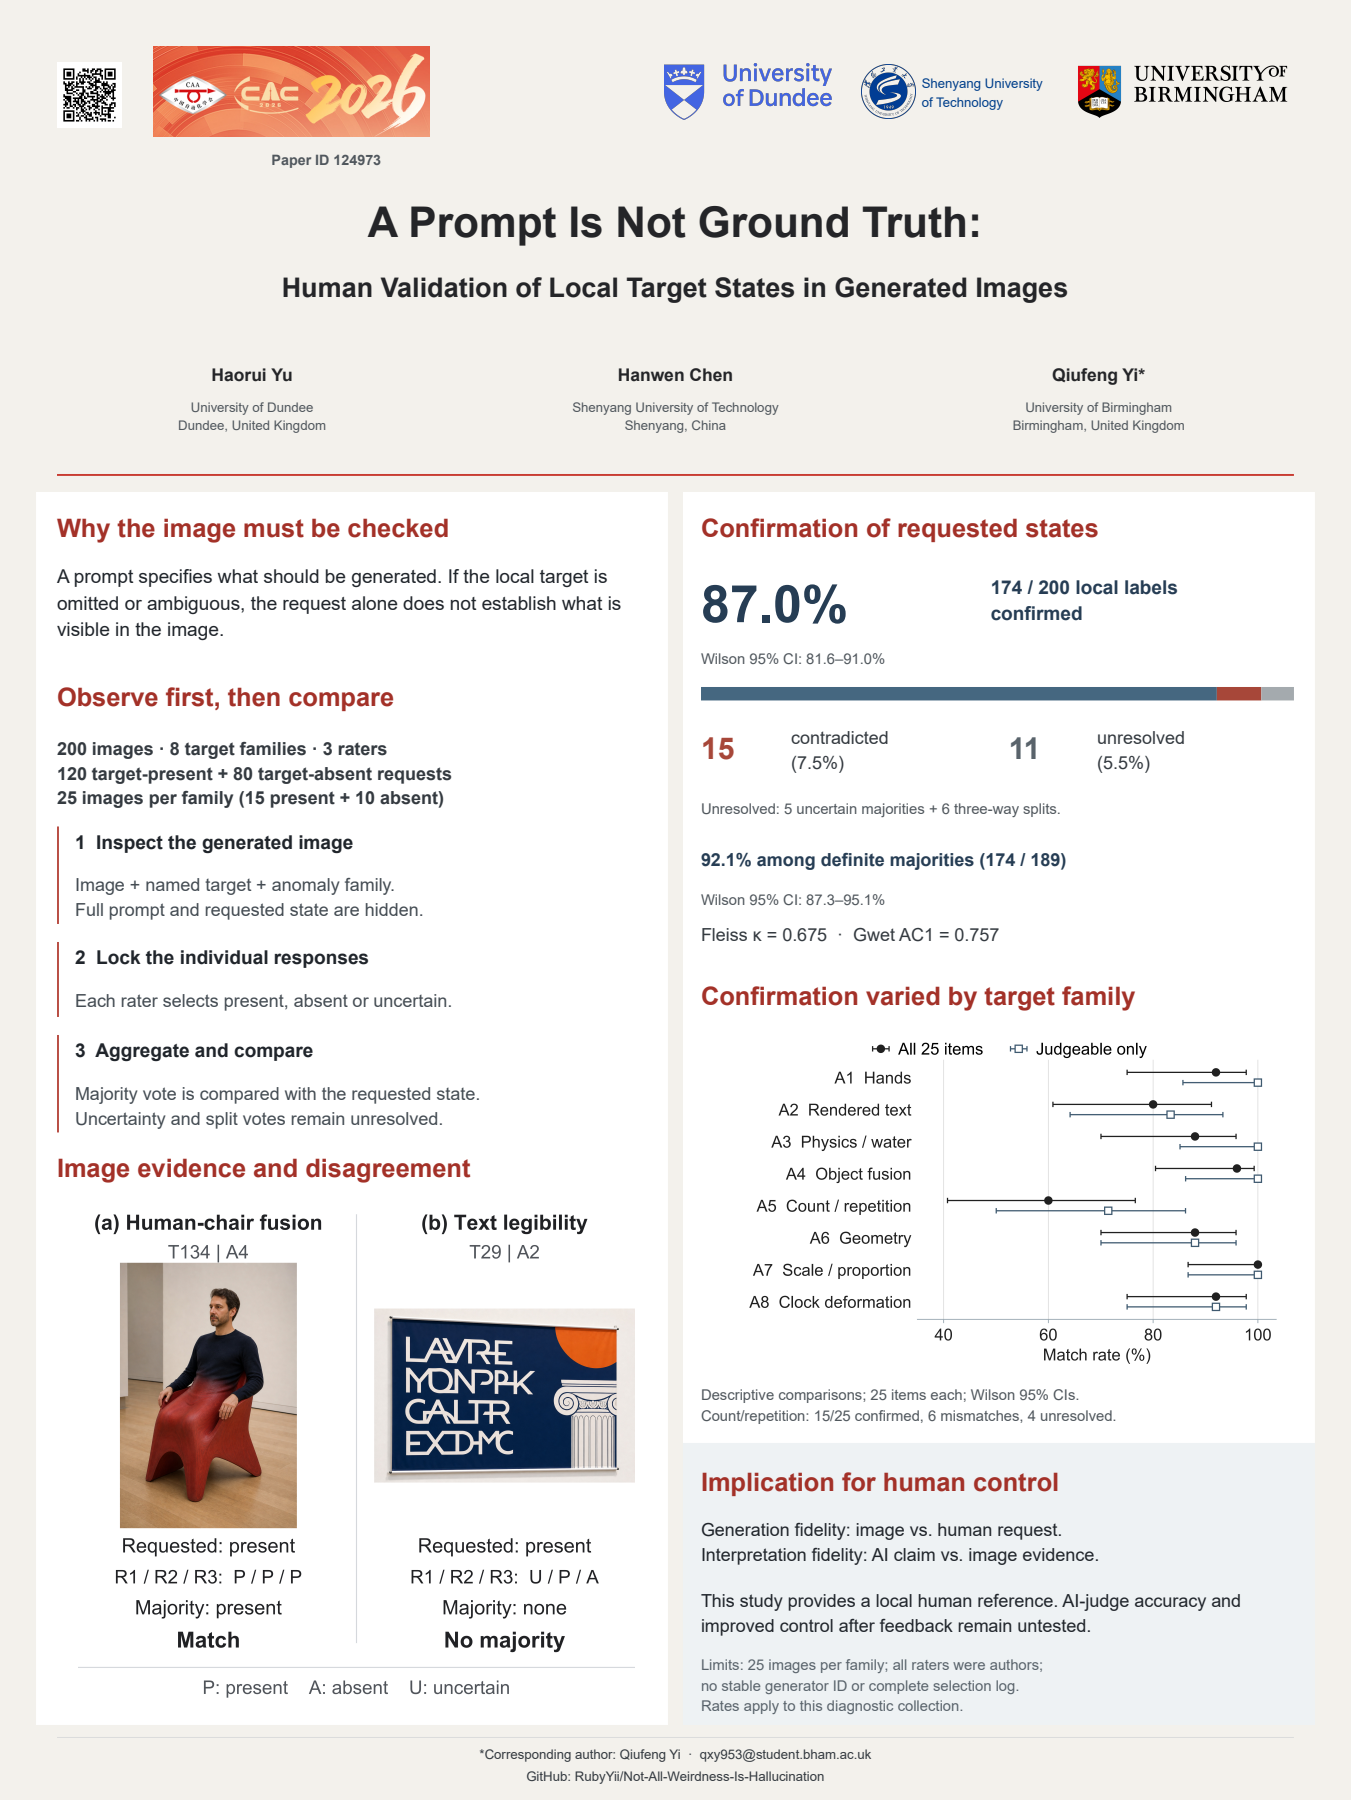
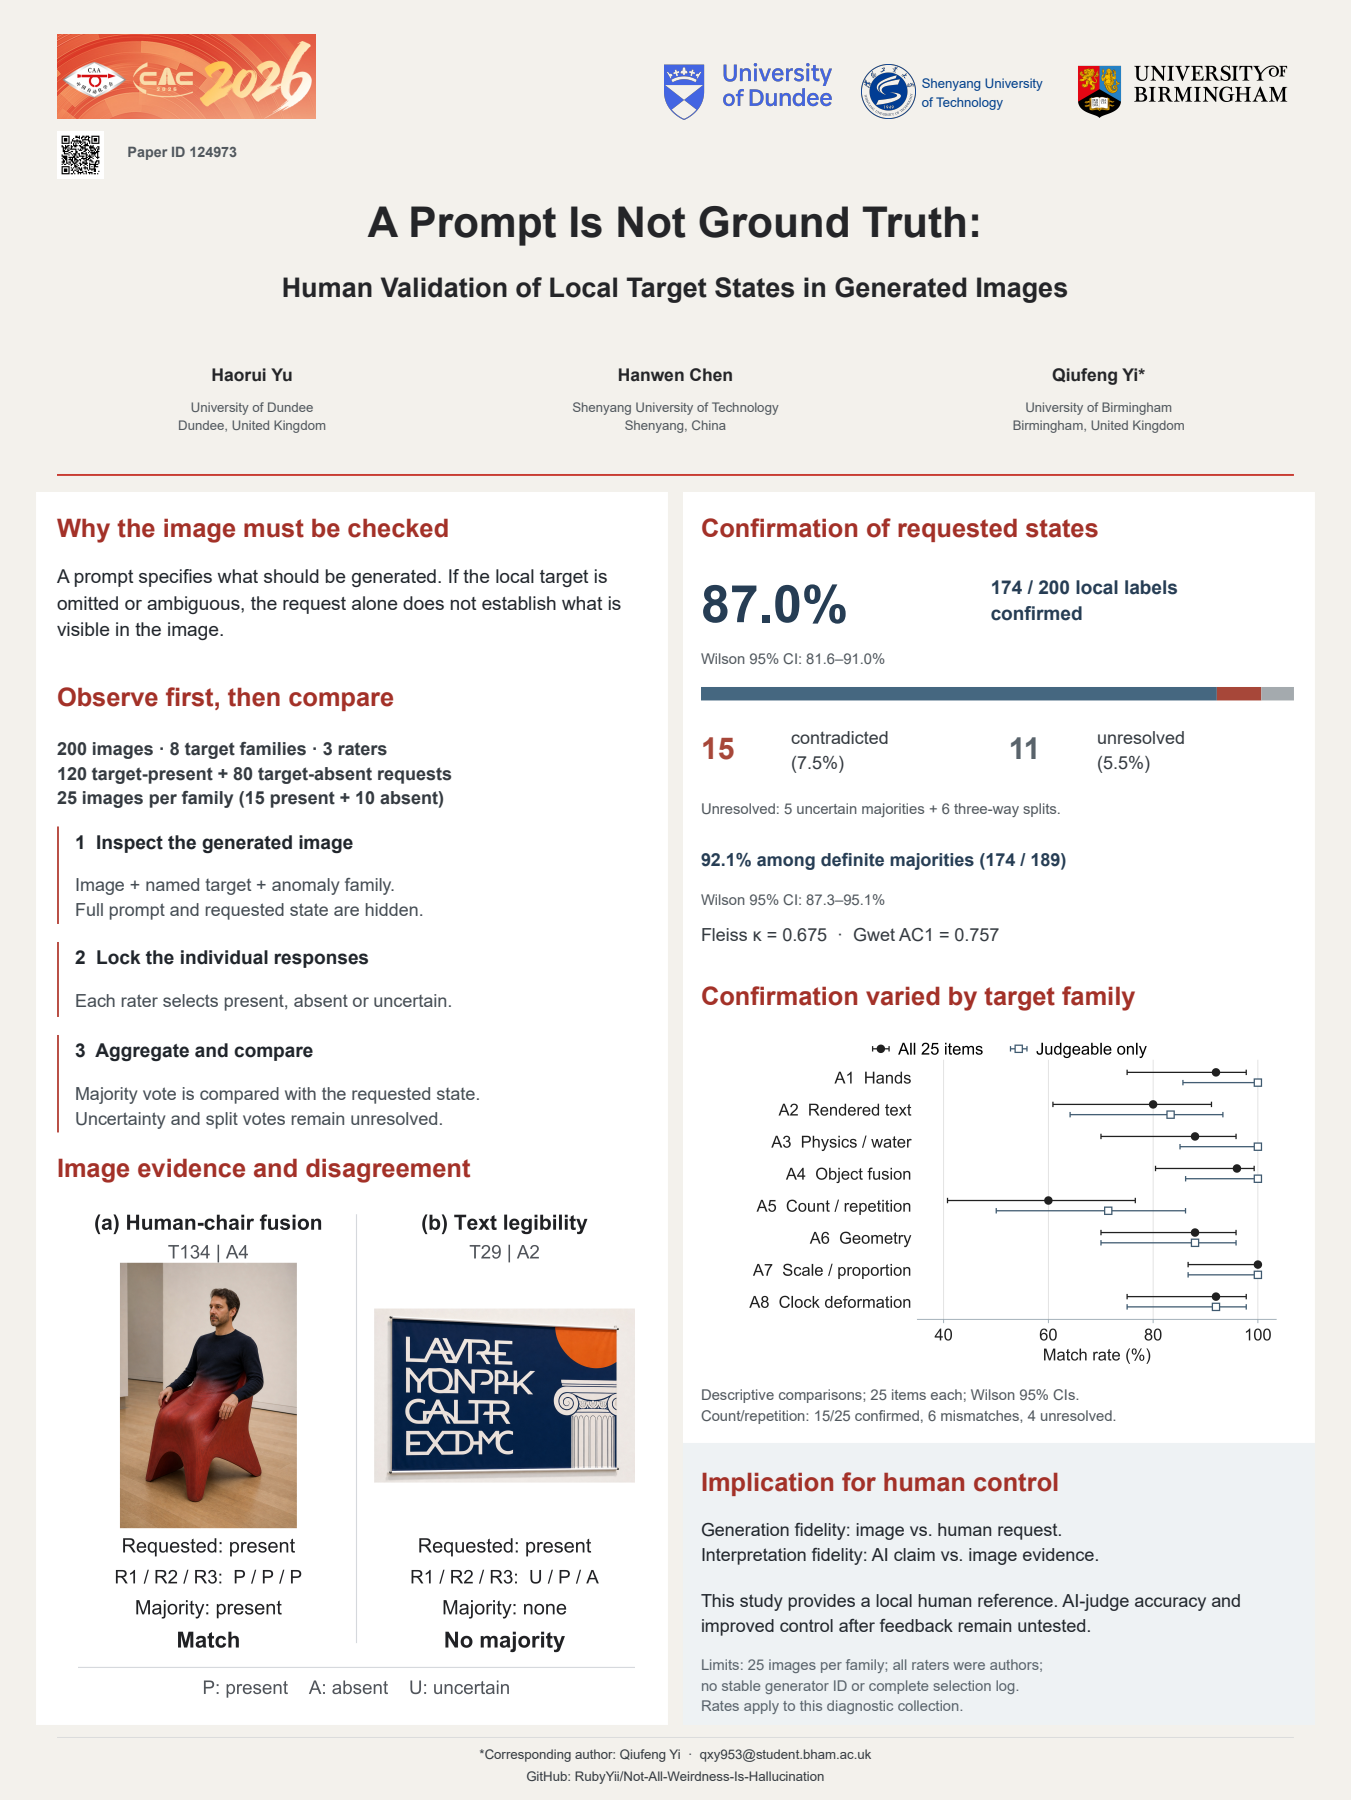
Update CAC poster to approved v7 header layout

Changed region(s): [[0.0311, 0.0, 0.342, 0.0933]]

diff --git a/cac2026/poster/README.md b/cac2026/poster/README.md
@@ -1,9 +1,13 @@
 # CAC 2026 poster
 
+**Current version: v7**, approved by the author on 20 September 2026.
+
 Paper ID 124973. One page, 900 x 1200 mm, portrait.
 
-This is the author-requested poster revision dated 20 September 2026: QR at upper left, the official CAA / CAC 2026 marks beside it, Paper ID below CAC 2026, and three school names at upper right. The PDF retains the locked primary results. The PNG is rendered from that PDF.
+[Download the poster PDF](CAC2026_Poster_124973.pdf) · [View the PNG preview](CAC2026_Poster_124973.png)
 
-The QR links to the repository homepage. Digital decoding from the PDF was checked; a physical print/phone test has not been performed. Conference submission is not claimed by this repository release.
+The official CAA / CAC 2026 marks sit at the upper left. The repository QR is directly underneath, with Paper ID 124973 to its right. The three school names remain at the upper right. This header adjustment leaves all scientific text, data and figures unchanged from v6.
+
+The PNG is rendered from the PDF. Digital QR decoding from the PDF was checked against the repository URL; a physical print/phone test has not been performed. This repository release does not constitute conference submission.
 
 School and conference marks identify the authors' affiliations and venue; they are not part of any reusable dataset or a blanket license grant.
